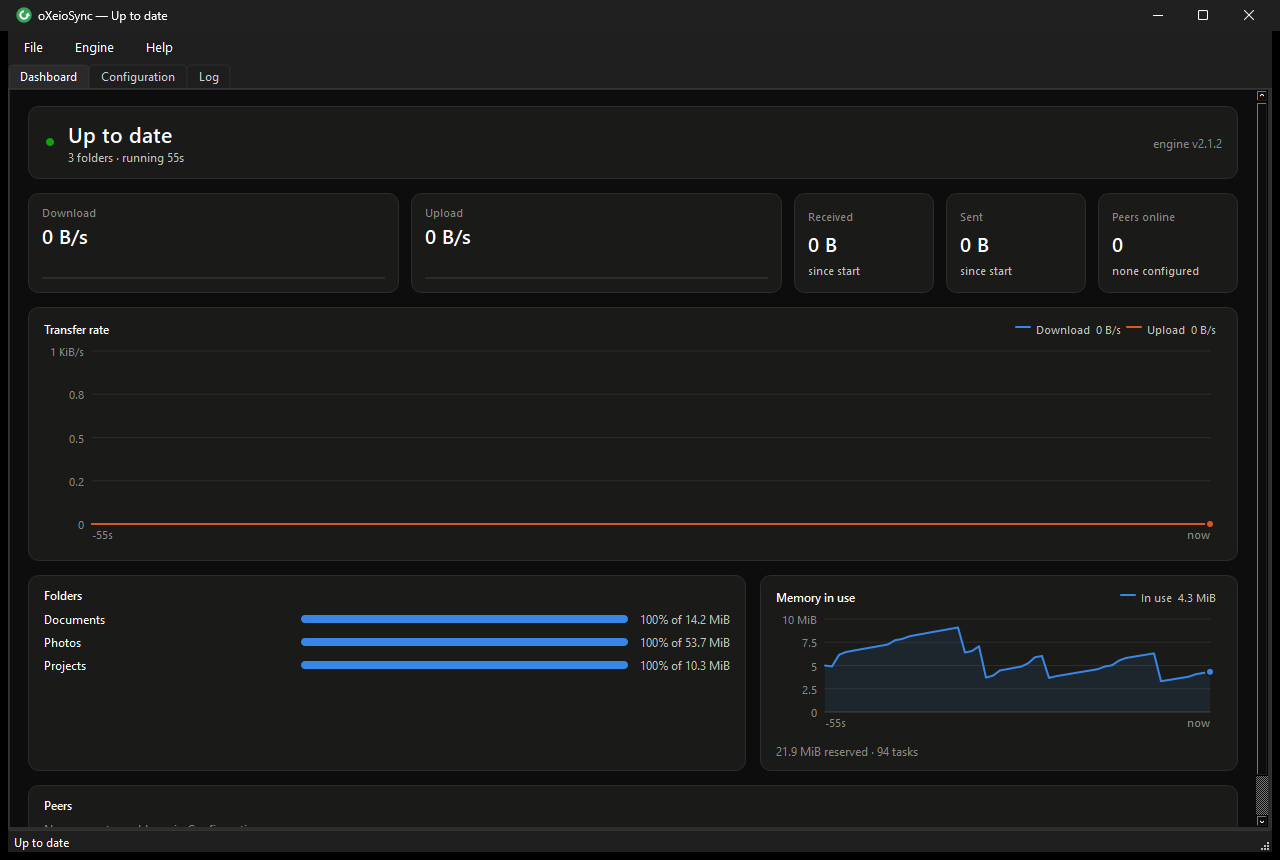
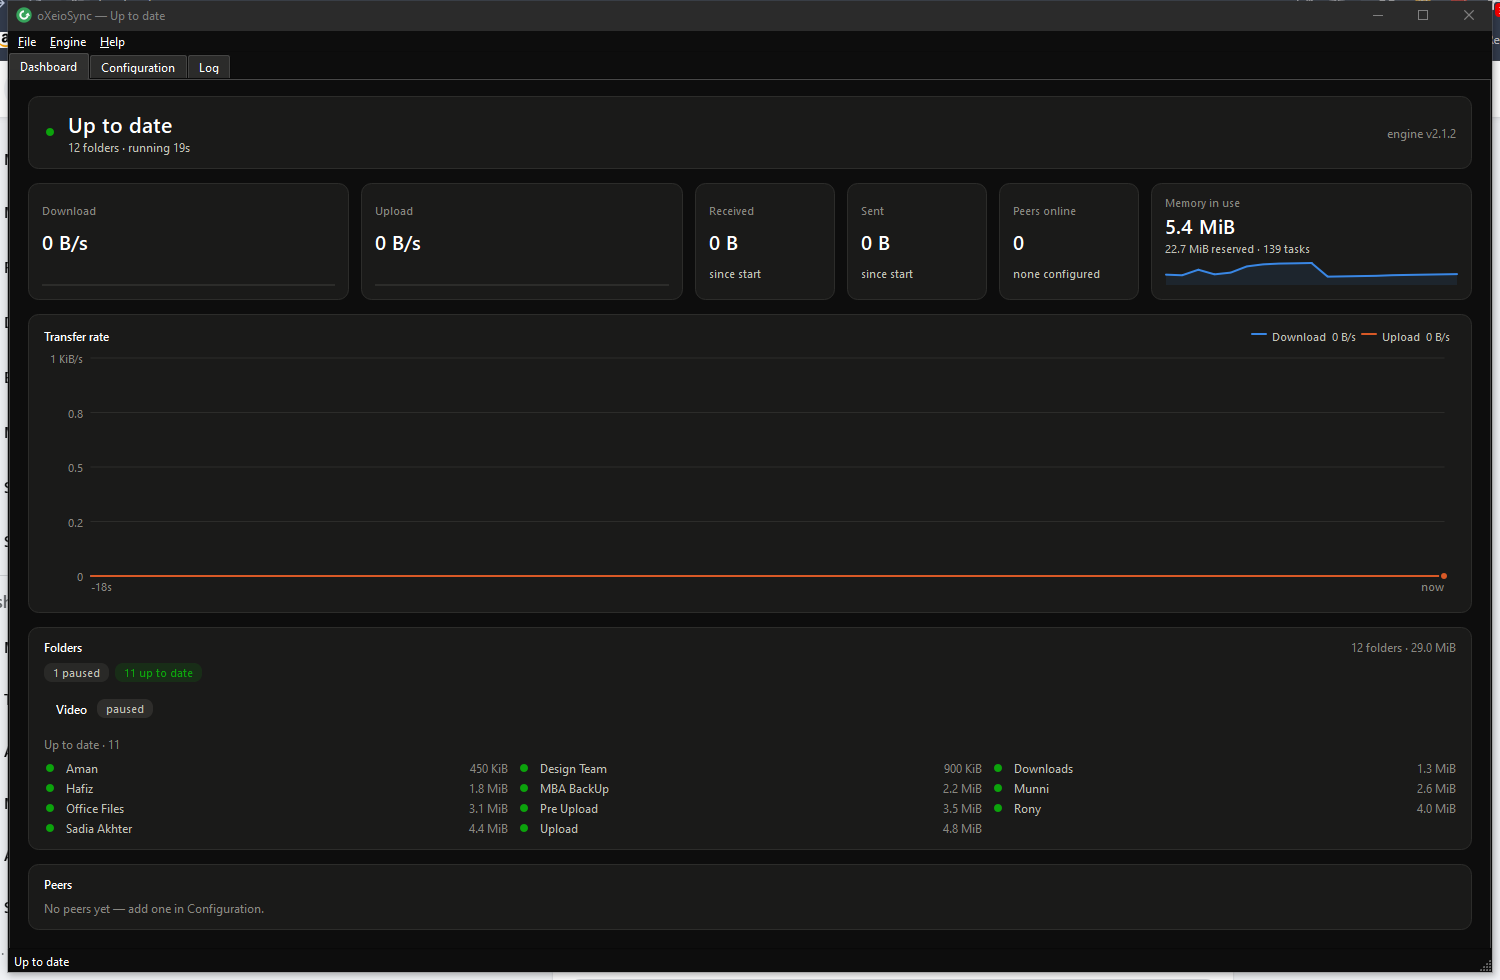
Reshoot the dashboard, and say what the picture shows
The screenshot in the README predated the folders card, the dark palette
and the style change, so the caption I had written for it described an
image that showed something else — one row and a full meter per folder,
which is the arrangement the redesign replaced.

Retaken from a scratch profile: twelve folders, one of them paused, the
engine running. The caption now says what is actually in frame, including
why the chart is flat and the peer list empty, rather than describing a
busier machine than the one photographed.

diff --git a/README.md b/README.md
@@ -70,8 +70,10 @@ Prefer to build it yourself? See [Building for macOS](#building-for-macos).
 
 ![The dashboard](docs/screenshots/dashboard.png)
 
-*The dashboard: live throughput on a shared axis, and folders ordered by what
-wants attention. Sample folders on a scratch profile.*
+*The dashboard: download and upload on one shared axis, and folders ordered by
+what wants attention — the paused one gets a row, the eleven that are fine get a
+name and a size. Twelve sample folders on an idle scratch profile, which is why
+the chart is flat and no peers are configured.*
 
 ![The configuration page](docs/screenshots/configuration.png)
 
